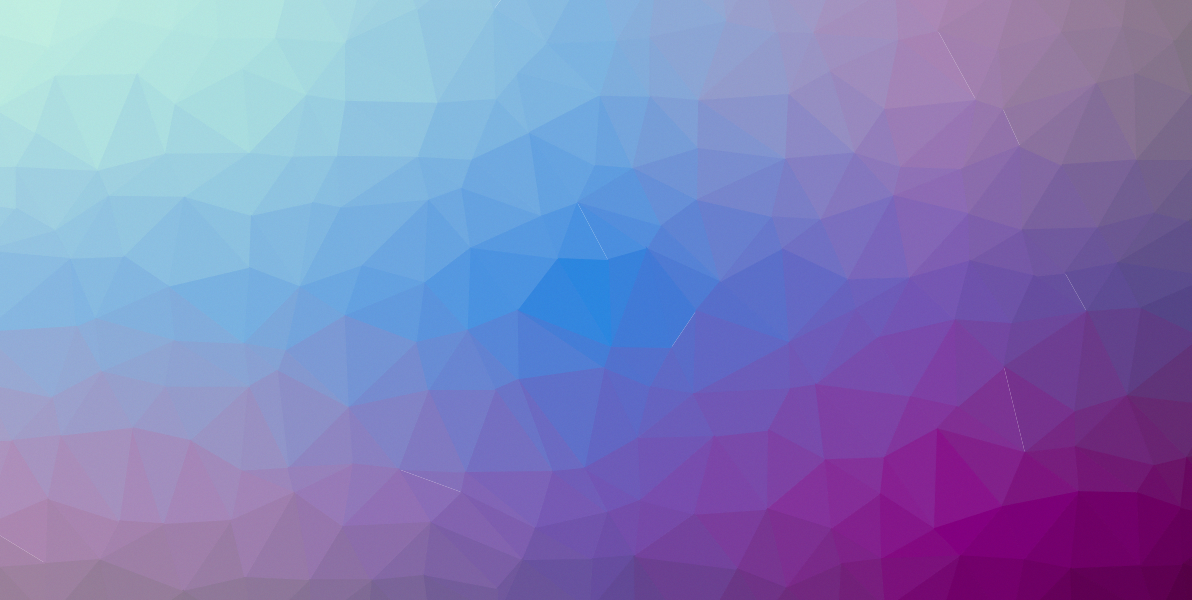
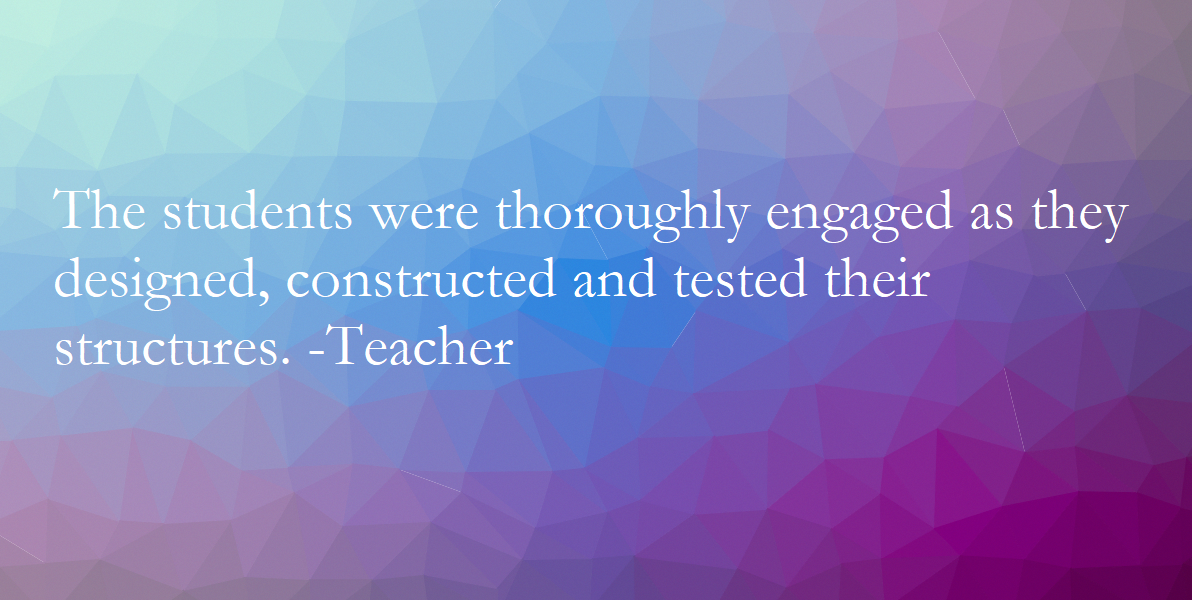
Added the quotes to the slider

Changed region(s): [[0.031, 0.3, 0.9622, 0.51], [0.2794, 0.54, 0.4346, 0.63], [0.031, 0.57, 0.2483, 0.63]]

diff --git a/react-bootstrap/src/components/Footer.jsx b/react-bootstrap/src/components/Footer.jsx
@@ -19,8 +19,7 @@ const Footer = () => {
                {/* Coulmn2 */}
                
                <div class="col">
-                   <h4>The students were thoroughly engaged as they designed, constructed and tested their structures.
-                                                                         -Teacher</h4>
+        
                </div>
                {/* Coulmn3 */}
                <div class = "col">

diff --git a/react-bootstrap/src/components/Slider.jsx b/react-bootstrap/src/components/Slider.jsx
@@ -29,10 +29,11 @@ return(
             key={index} 
             className="slide"
             style={{transform: `translate(${x}px`}}>
-                {item}
+                {item}  
             </div>
         );
     })}
+ 
 <button id="goLeft"  onClick={goLeft}>
 <i class="fas fa-chevron-left"></i>
 </button>
@@ -45,3 +46,4 @@ return(
 
 
 export default Slider;
+

diff --git a/react-bootstrap/src/components/Slider.scss b/react-bootstrap/src/components/Slider.scss
@@ -52,3 +52,16 @@ i{
 right: 0;
 @extend %btn-styles;
 }
+
+.title {
+    /* background-color: #ff8282; */
+    /* width: 25%; */
+    /* height: auto; */
+  
+    font-family: Quicksand;
+    font-style: normal;
+    font-weight: bolder;
+     font-size: 48px; 
+  
+    color: #000000;
+  }
